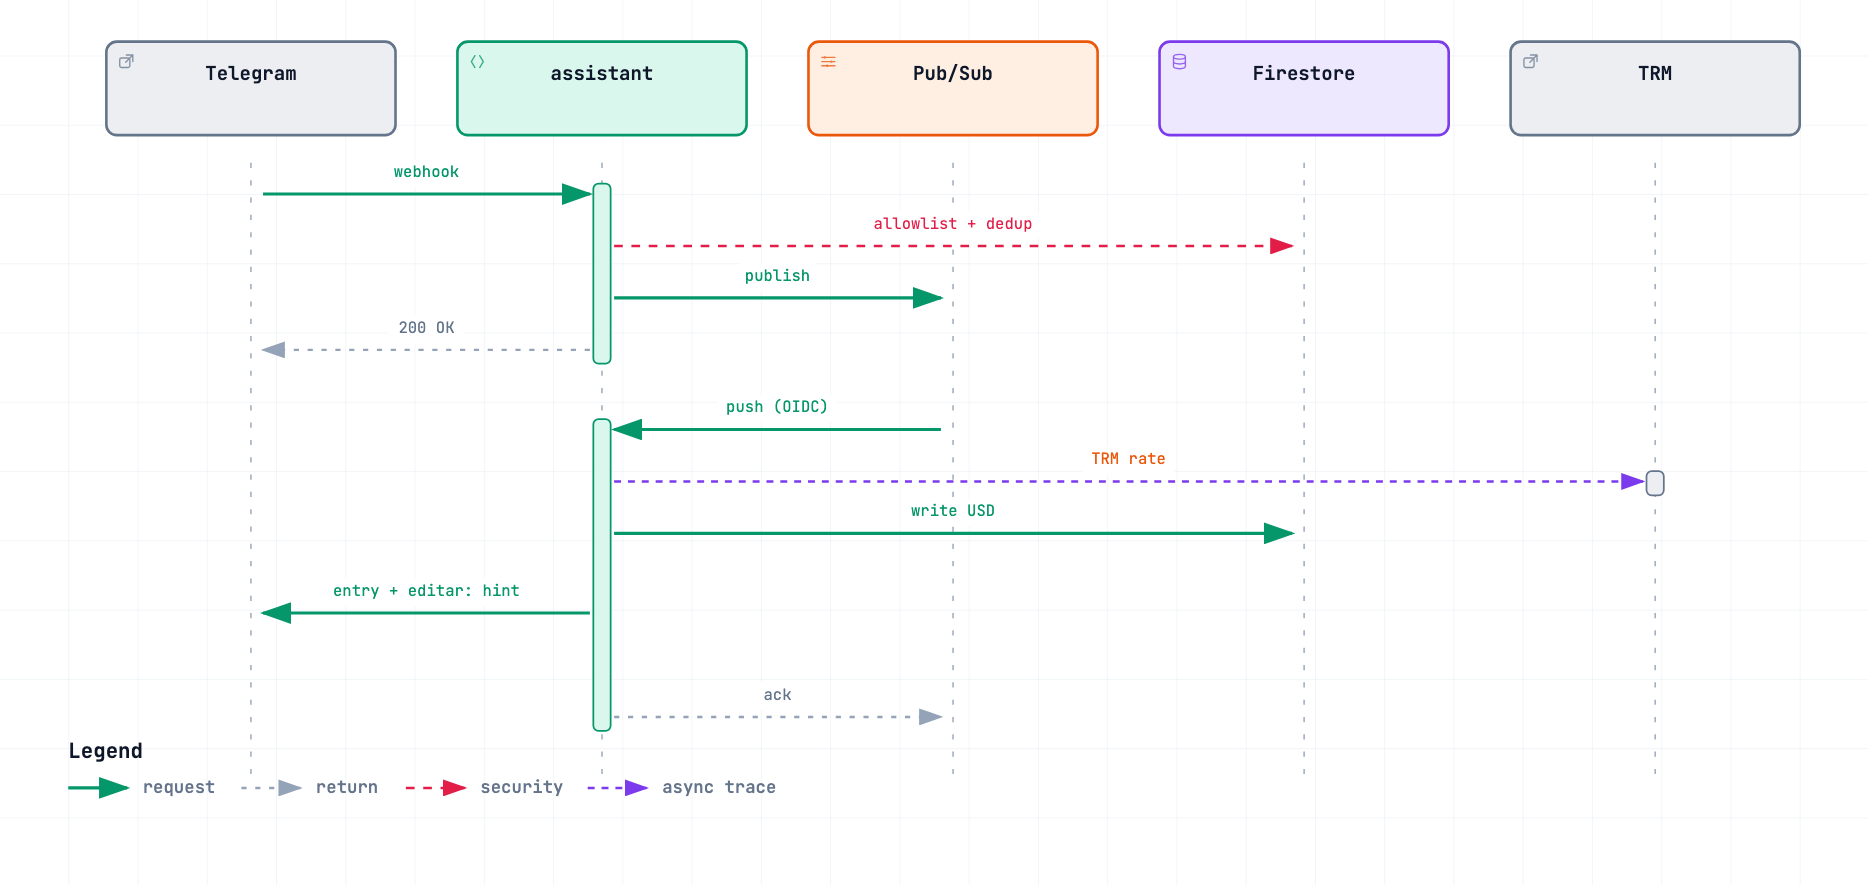
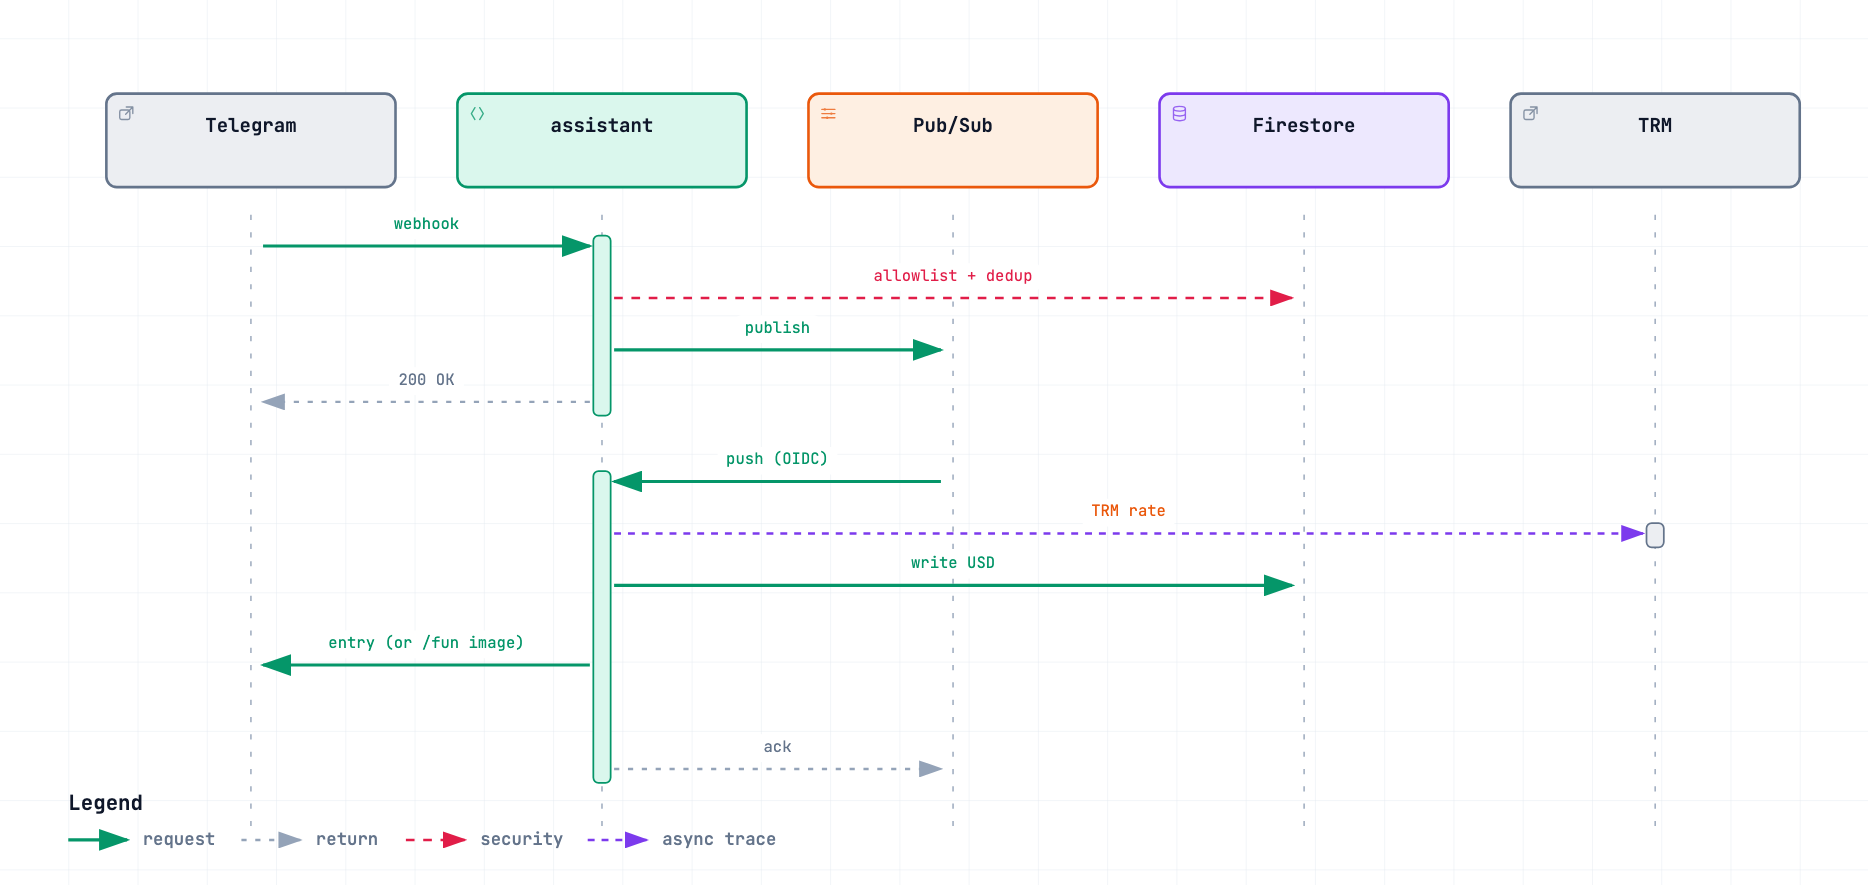
docs: diagrams with Gemini, Google Calendar sync and the media bucket

diff --git a/docs/architecture/architecture.html b/docs/architecture/architecture.html
@@ -5159,18 +5159,20 @@ OTHER DEALINGS IN THE FONT SOFTWARE.
         <rect data-graph-role="structural-frame" data-composition-frame-kind="region" data-composition-frame-id="0" data-composition-frame-label="GCP jd-botjonh" x="180" y="10" width="1120" height="644" rx="12" class="c-region" stroke-width="1"/>
 
         <!-- Connection paths (before components for correct z-order) -->
-        <path data-edge-from="telegram" data-edge-to="assistant" data-edge-label="webhook" data-edge-key="0" data-edge-id="webhook" data-composition-points="140,232;210,232" d="M 140 232 L 210 232" class="a-emphasis" stroke-width="1.8" marker-end="url(#arrowhead-emphasis)"/>
+        <path data-edge-from="telegram" data-edge-to="assistant" data-edge-label="webhook" data-edge-key="0" data-edge-id="webhook" data-composition-points="140,225;210,225" d="M 140 225 L 210 225" class="a-emphasis" stroke-width="1.8" marker-end="url(#arrowhead-emphasis)"/>
         <path data-edge-from="assistant" data-edge-to="updates" data-edge-label="publish" data-edge-key="1" data-edge-id="publish" data-composition-points="293,264;293,400" d="M 293 264 L 293 400" class="a-emphasis" stroke-width="1.8" marker-end="url(#arrowhead-emphasis)"/>
         <path data-edge-from="updates" data-edge-to="assistant" data-edge-label="push (OIDC)" data-edge-key="2" data-edge-id="push" data-composition-points="307,400;307,264" d="M 307 400 L 307 264" class="a-emphasis" stroke-width="1.8" marker-end="url(#arrowhead-emphasis)"/>
         <path data-edge-from="assistant" data-edge-to="firestore" data-edge-label="write" data-edge-key="3" data-edge-id="state" data-composition-points="390,226.66666666666666;650,226.66666666666666" d="M 390 226.66666666666666 L 650 226.66666666666666" class="a-emphasis" stroke-width="1.8" marker-end="url(#arrowhead-emphasis)"/>
         <path data-edge-from="assistant" data-edge-to="deepseek" data-edge-label="tool calls" data-edge-key="4" data-edge-id="llm" data-composition-points="390,216;540,216;540,104" d="M 390 216 L 532 216 Q 540 216 540 208 L 540 104" class="a-dashed" stroke-width="1.5" marker-end="url(#arrowhead-dashed)"/>
         <path data-edge-from="firestore" data-edge-to="fx" data-edge-label="rates" data-edge-key="5" data-edge-id="rates" data-composition-points="730,200;730,104" d="M 730 200 L 730 104" class="a-dashed" stroke-width="1.5" marker-end="url(#arrowhead-dashed)"/>
-        <path data-edge-from="assistant" data-edge-to="kms" data-edge-label="decrypt" data-edge-key="6" data-edge-id="decrypt" data-composition-points="300,200;300,104" d="M 300 200 L 300 104" class="a-security" stroke-width="1.5" marker-end="url(#arrowhead-security)"/>
+        <path data-edge-from="assistant" data-edge-to="kms" data-edge-label="decrypt" data-edge-key="6" data-edge-id="decrypt" data-composition-points="307,200;307,104" d="M 307 200 L 307 104" class="a-security" stroke-width="1.5" marker-end="url(#arrowhead-security)"/>
         <path data-edge-from="scheduler" data-edge-to="updates" data-edge-label="jobs" data-edge-key="7" data-edge-id="cron" data-composition-points="300,570;300,464" d="M 300 570 L 300 464" class="a-default" stroke-width="1.5" marker-end="url(#arrowhead)"/>
         <path data-edge-from="assistant" data-edge-to="tasks" data-edge-label="enqueue" data-edge-key="8" data-edge-id="remind" data-composition-points="390,237.33333333333334;425,237.33333333333334;425,432;460,432" d="M 390 237.33333333333334 L 417 237.33333333333334 Q 425 237.33333333333334 425 245.33333333333334 L 425 424 Q 425 432 433 432 L 460 432" class="a-default" stroke-width="1.5" marker-end="url(#arrowhead)"/>
         <path data-edge-from="firestore" data-edge-to="gcs" data-edge-label="daily export" data-edge-key="9" data-edge-id="export" data-composition-points="810,232;850,232;850,432;890,432" d="M 810 232 L 842 232 Q 850 232 850 240 L 850 424 Q 850 432 858 432 L 890 432" class="a-default" stroke-width="1.5" marker-end="url(#arrowhead)"/>
         <path data-edge-from="gcs" data-edge-to="bigquery" data-edge-key="10" data-edge-id="external-table" data-composition-points="1050,432;1120,432" d="M 1050 432 L 1120 432" class="a-default" stroke-width="1.5" marker-end="url(#arrowhead)"/>
         <path data-edge-from="assistant" data-edge-to="monitoring" data-edge-label="logs + metrics" data-edge-key="11" data-edge-id="observe" data-composition-points="390,248;626,248;626,602;650,602" d="M 390 248 L 618 248 Q 626 248 626 256 L 626 594 Q 626 602 634 602 L 650 602" class="a-default" stroke-width="1.5" marker-end="url(#arrowhead)"/>
+        <path data-edge-from="assistant" data-edge-to="gemini" data-edge-label="read photo" data-edge-key="12" data-edge-id="photos" data-composition-points="293,200;293,176;164,176;164,72;140,72" d="M 293 200 L 293 184 Q 293 176 285 176 L 172 176 Q 164 176 164 168 L 164 80 Q 164 72 156 72 L 140 72" class="a-dashed" stroke-width="1.5" marker-end="url(#arrowhead-dashed)"/>
+        <path data-edge-from="assistant" data-edge-to="gcal" data-edge-label="mirror + sync" data-edge-key="13" data-edge-id="calendar" data-composition-points="210,239;190,239;190,432;170,432" d="M 210 239 L 198 239 Q 190 239 190 247 L 190 424 Q 190 432 182 432 L 170 432" class="a-dashed" stroke-width="1.5" marker-end="url(#arrowhead-dashed)"/>
 
         <!-- Components -->
         <g id="node-telegram" data-node-id="telegram" data-node-label="Telegram" tabindex="0" role="button" aria-label="Focus Telegram, Architecture component" aria-pressed="false" data-node-kind="external" data-node-context="Architecture component">
@@ -5280,8 +5282,8 @@ OTHER DEALINGS IN THE FONT SOFTWARE.
         <text data-detail="context" x="540" y="446" class="t-muted" font-size="9" text-anchor="middle">reminders</text>
         </g>
 
-        <g id="node-gcs" data-node-id="gcs" data-node-label="GCS" tabindex="0" role="button" aria-label="Focus GCS, CSV, GCP jd-botjonh" aria-pressed="false" data-node-kind="database" data-node-sublabel="CSV" data-node-context="GCP jd-botjonh">
-          <title>GCS · CSV · GCP jd-botjonh</title>
+        <g id="node-gcs" data-node-id="gcs" data-node-label="GCS" tabindex="0" role="button" aria-label="Focus GCS, CSV · media, GCP jd-botjonh" aria-pressed="false" data-node-kind="database" data-node-sublabel="CSV · media" data-node-context="GCP jd-botjonh">
+          <title>GCS · CSV · media · GCP jd-botjonh</title>
           <rect x="890" y="400" width="160" height="64" rx="6" class="c-mask"/>
           <rect x="890" y="400" width="160" height="64" rx="6" class="c-database" stroke-width="1.5"/>
           <g aria-hidden="true" data-semantic-sigil="database" class="semantic-sigil s-database" transform="translate(896 406) scale(0.6875)">
@@ -5289,7 +5291,7 @@ OTHER DEALINGS IN THE FONT SOFTWARE.
             <path d="M3 4v8c0 1.1 2.2 2 5 2s5-.9 5-2V4M3 8c0 1.1 2.2 2 5 2s5-.9 5-2"/>
           </g>
           <text data-node-label="" data-detail-anchor="" x="970" y="430" class="t-primary" font-size="11" font-weight="600" text-anchor="middle">GCS</text>
-        <text data-detail="context" x="970" y="446" class="t-muted" font-size="9" text-anchor="middle">CSV</text>
+        <text data-detail="context" x="970" y="446" class="t-muted" font-size="9" text-anchor="middle">CSV · media</text>
         </g>
 
         <g id="node-bigquery" data-node-id="bigquery" data-node-label="BigQuery" tabindex="0" role="button" aria-label="Focus BigQuery, GCP jd-botjonh" aria-pressed="false" data-node-kind="database" data-node-context="GCP jd-botjonh">
@@ -5314,10 +5316,34 @@ OTHER DEALINGS IN THE FONT SOFTWARE.
         <text data-detail="context" x="750" y="616" class="t-muted" font-size="9" text-anchor="middle">metrics · alerts · Grafana</text>
         </g>
 
+        <g id="node-gemini" data-node-id="gemini" data-node-label="Gemini" tabindex="0" role="button" aria-label="Focus Gemini, photos, Architecture component" aria-pressed="false" data-node-kind="external" data-node-sublabel="photos" data-node-context="Architecture component">
+          <title>Gemini · photos · Architecture component</title>
+          <rect x="20" y="40" width="120" height="64" rx="6" class="c-mask"/>
+          <rect x="20" y="40" width="120" height="64" rx="6" class="c-external" stroke-width="1.5"/>
+          <g aria-hidden="true" data-semantic-sigil="external" class="semantic-sigil s-external" transform="translate(26 46) scale(0.6875)">
+            <rect x="2.5" y="5" width="8.5" height="8" rx="1.5"/>
+            <path d="M8 2.5h5.5V8M13.5 2.5 7.5 8.5"/>
+          </g>
+          <text data-node-label="" data-detail-anchor="" x="80" y="70" class="t-primary" font-size="11" font-weight="600" text-anchor="middle">Gemini</text>
+        <text data-detail="context" x="80" y="86" class="t-muted" font-size="9" text-anchor="middle">photos</text>
+        </g>
+
+        <g id="node-gcal" data-node-id="gcal" data-node-label="Google Calendar" tabindex="0" role="button" aria-label="Focus Google Calendar, OAuth, Architecture component" aria-pressed="false" data-node-kind="external" data-node-sublabel="OAuth" data-node-context="Architecture component">
+          <title>Google Calendar · OAuth · Architecture component</title>
+          <rect x="20" y="400" width="150" height="64" rx="6" class="c-mask"/>
+          <rect x="20" y="400" width="150" height="64" rx="6" class="c-external" stroke-width="1.5"/>
+          <g aria-hidden="true" data-semantic-sigil="external" class="semantic-sigil s-external" transform="translate(26 406) scale(0.6875)">
+            <rect x="2.5" y="5" width="8.5" height="8" rx="1.5"/>
+            <path d="M8 2.5h5.5V8M13.5 2.5 7.5 8.5"/>
+          </g>
+          <text data-node-label="" data-detail-anchor="" x="95" y="430" class="t-primary" font-size="11" font-weight="600" text-anchor="middle">Google Calendar</text>
+        <text data-detail="context" x="95" y="446" class="t-muted" font-size="9" text-anchor="middle">OAuth</text>
+        </g>
+
         <!-- Connection labels -->
         <g data-detail="context" data-edge-from="telegram" data-edge-to="assistant" data-edge-label="webhook" data-edge-key="0" data-edge-id="webhook">
-          <rect x="153.2" y="212" width="43.6" height="14" rx="3" class="c-mask"/>
-          <text x="175" y="222" class="t-backend" font-size="8" text-anchor="middle">webhook</text>
+          <rect x="153.2" y="205" width="43.6" height="14" rx="3" class="c-mask"/>
+          <text x="175" y="215" class="t-backend" font-size="8" text-anchor="middle">webhook</text>
         </g>
         <g data-detail="context" data-edge-from="assistant" data-edge-to="updates" data-edge-label="publish" data-edge-key="1" data-edge-id="publish">
           <rect x="219.2" y="268" width="43.6" height="14" rx="3" class="c-mask"/>
@@ -5340,8 +5366,8 @@ OTHER DEALINGS IN THE FONT SOFTWARE.
           <text x="730" y="190" class="t-messagebus" font-size="8" text-anchor="middle">rates</text>
         </g>
         <g data-detail="context" data-edge-from="assistant" data-edge-to="kms" data-edge-label="decrypt" data-edge-key="6" data-edge-id="decrypt">
-          <rect x="278.2" y="180" width="43.6" height="14" rx="3" class="c-mask"/>
-          <text x="300" y="190" class="t-security" font-size="8" text-anchor="middle">decrypt</text>
+          <rect x="325.2" y="180" width="43.6" height="14" rx="3" class="c-mask"/>
+          <text x="347" y="190" class="t-security" font-size="8" text-anchor="middle">decrypt</text>
         </g>
         <g data-detail="context" data-edge-from="scheduler" data-edge-to="updates" data-edge-label="jobs" data-edge-key="7" data-edge-id="cron">
           <rect x="285" y="550" width="30" height="14" rx="3" class="c-mask"/>
@@ -5359,6 +5385,14 @@ OTHER DEALINGS IN THE FONT SOFTWARE.
         <g data-detail="context" data-edge-from="assistant" data-edge-to="monitoring" data-edge-label="logs + metrics" data-edge-key="11" data-edge-id="observe">
           <rect x="587.4" y="468" width="77.2" height="14" rx="3" class="c-mask"/>
           <text x="626" y="478" class="t-muted" font-size="8" text-anchor="middle">logs + metrics</text>
+        </g>
+        <g data-detail="context" data-edge-from="assistant" data-edge-to="gemini" data-edge-label="read photo" data-edge-key="12" data-edge-id="photos">
+          <rect x="199.5" y="156" width="58" height="14" rx="3" class="c-mask"/>
+          <text x="228.5" y="166" class="t-messagebus" font-size="8" text-anchor="middle">read photo</text>
+        </g>
+        <g data-detail="context" data-edge-from="assistant" data-edge-to="gcal" data-edge-label="mirror + sync" data-edge-key="13" data-edge-id="calendar">
+          <rect x="153.8" y="315.5" width="72.4" height="14" rx="3" class="c-mask"/>
+          <text x="190" y="325.5" class="t-messagebus" font-size="8" text-anchor="middle">mirror + sync</text>
         </g>
 
         <!-- Boundary labels (foreground masks keep routes out of titles) -->

diff --git a/docs/architecture/expense-turn.html b/docs/architecture/expense-turn.html
@@ -5230,11 +5230,11 @@ OTHER DEALINGS IN THE FONT SOFTWARE.
         </g>
         </g>
 
-        <g data-edge-from="assistant" data-edge-to="telegram" data-edge-label="entry + editar: hint" data-edge-key="7">
+        <g data-edge-from="assistant" data-edge-to="telegram" data-edge-label="entry (or /fun image)" data-edge-key="7">
           <path data-composition-edge-from="assistant" data-composition-edge-to="telegram" data-composition-points="341.25,402;152.5,402" d="M 341.25 402 L 152.5 402" class="a-emphasis" stroke-width="1.8" marker-end="url(#arrowhead-emphasis)"/>
         <g data-detail="context">
-          <rect x="188.875" y="382" width="116" height="16" rx="3" class="c-mask"/>
-          <text x="246.875" y="392" class="t-backend" font-size="9" text-anchor="middle">entry + editar: hint</text>
+          <rect x="186.275" y="382" width="121.2" height="16" rx="3" class="c-mask"/>
+          <text x="246.875" y="392" class="t-backend" font-size="9" text-anchor="middle">entry (or /fun image)</text>
         </g>
         </g>
 
